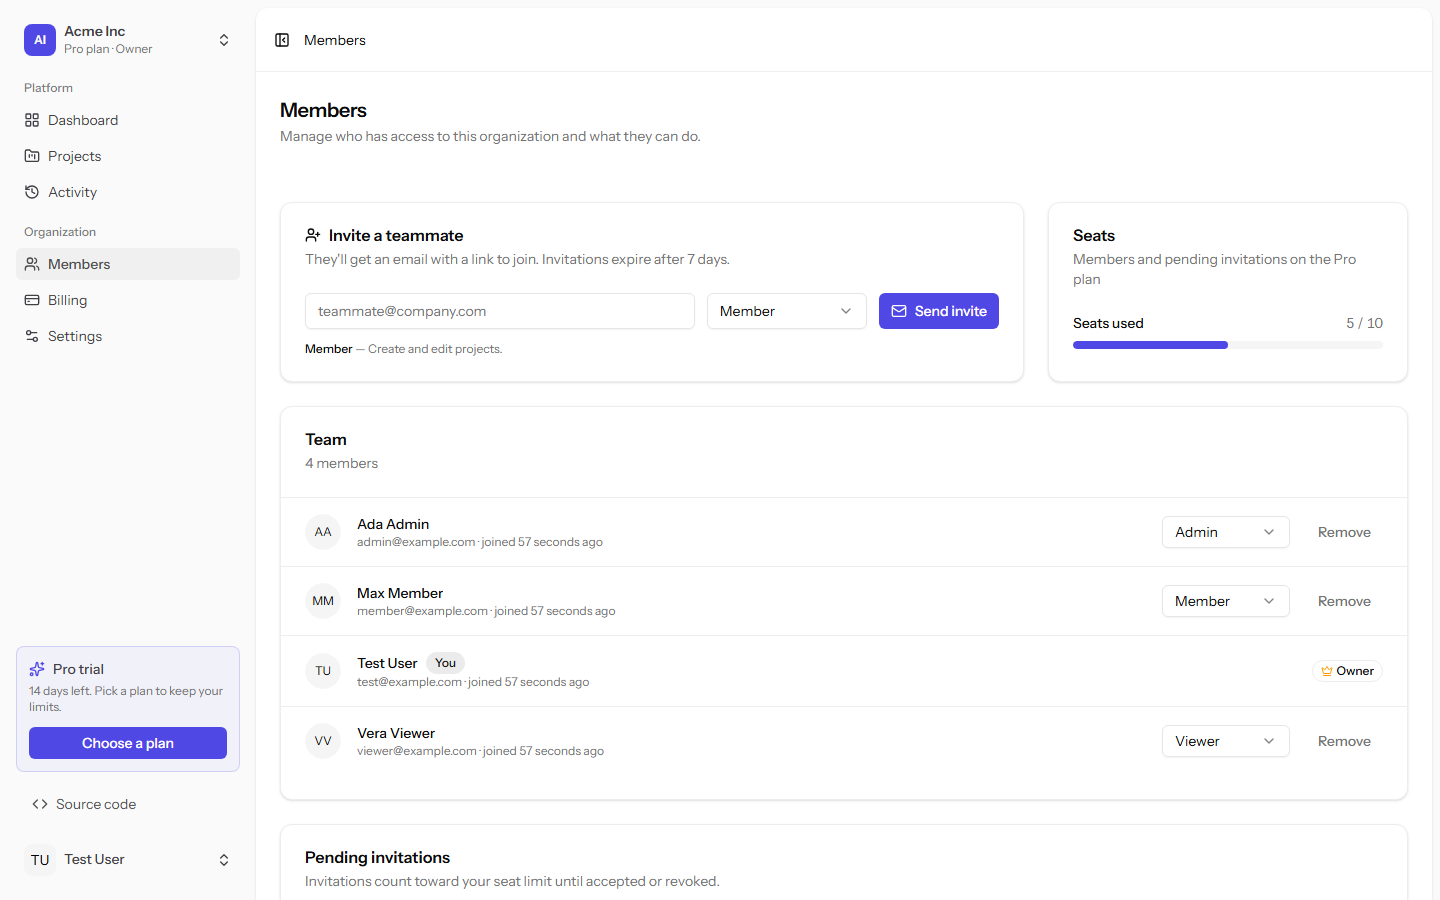
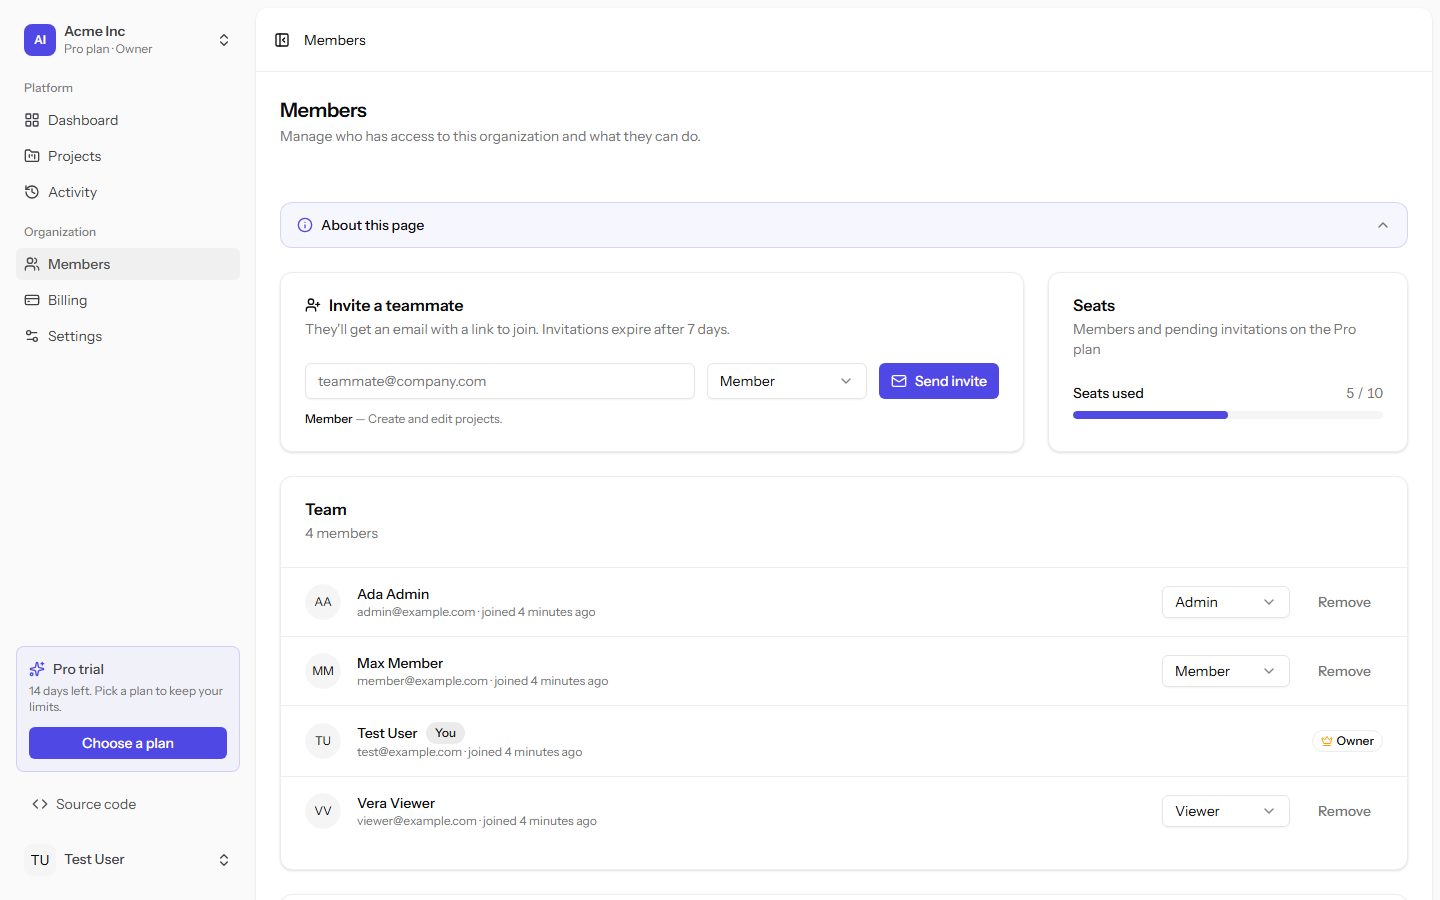
Refresh screenshots and add a Stripe Checkout GIF
Retake the README screenshots from a freshly seeded demo database so they
show the page guides and the demo login, and add a recording of the
checkout flow against a Stripe sandbox.

diff --git a/README.md b/README.md
@@ -16,7 +16,7 @@ Tailwind 4, shadcn-vue, Wayfinder typed routes).
 | -------- | -------------------------------------------------------------------------- |
 | Backend  | Laravel 13, PHP 8.3+, Fortify, Cashier (Stripe), spatie/laravel-permission |
 | Frontend | Vue 3 + TypeScript, Inertia 3, Tailwind 4, shadcn-vue (reka-ui), Wayfinder |
-| Quality  | Pest (105 tests), Larastan level 7, Pint, vue-tsc, oxlint                   |
+| Quality  | Pest (105 tests), Larastan level 7, Pint, vue-tsc, oxlint                  |
 
 ## Features
 
@@ -44,14 +44,22 @@ Tailwind 4, shadcn-vue, Wayfinder typed routes).
 
 ## Screenshots
 
+**Subscribing through Stripe Checkout** (test mode, recorded against a real Stripe sandbox): a
+one-click demo login, then upgrading to Pro with the `4242` test card. The webhook marks the plan
+Active and the paid invoice appears.
+
+![Stripe Checkout flow, from demo login to an active Pro subscription](docs/screenshots/checkout.gif)
+
 |                                                                                    |                                                                            |
 | ---------------------------------------------------------------------------------- | -------------------------------------------------------------------------- |
 | ![Landing page with pricing from config/billing.php](docs/screenshots/landing.png) | ![Dashboard in dark mode](docs/screenshots/dashboard-dark.png)             |
 | Landing page; pricing is read from `config/billing.php`                            | Dashboard in dark mode                                                     |
 | ![Projects as an Owner](docs/screenshots/projects.png)                             | ![Projects as a Viewer](docs/screenshots/projects-viewer.png)              |
-| Projects as an **Owner**                                                           | The same page as a **Viewer**: no create or edit controls, fewer nav items |
+| Projects as an **Owner**, with its "About this page" guide open                    | The same page as a **Viewer**: no create or edit controls, fewer nav items |
 | ![Members and invitations](docs/screenshots/members.png)                           | ![Billing](docs/screenshots/billing.png)                                   |
 | Members, roles and invitations with seat usage                                     | Billing: trial status, plan picker, portal and invoices                    |
+| ![Login with one-click demo accounts](docs/screenshots/login.png)                  |                                                                            |
+| Login with one-click demo accounts for each role                                   |                                                                            |
 
 ## Architecture
 
